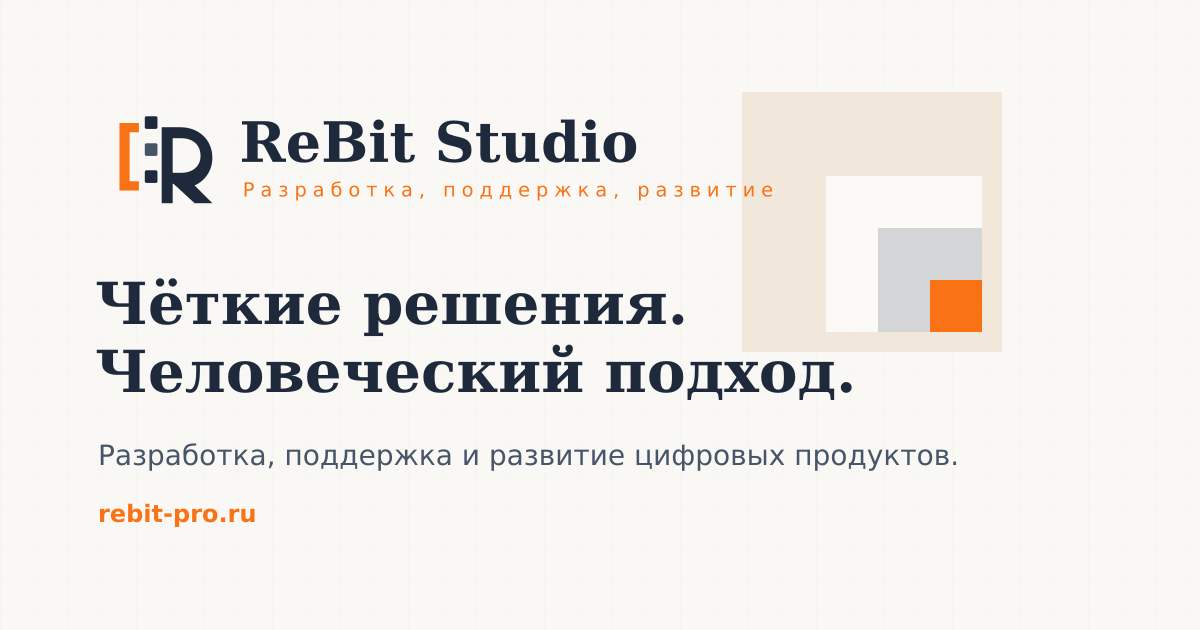
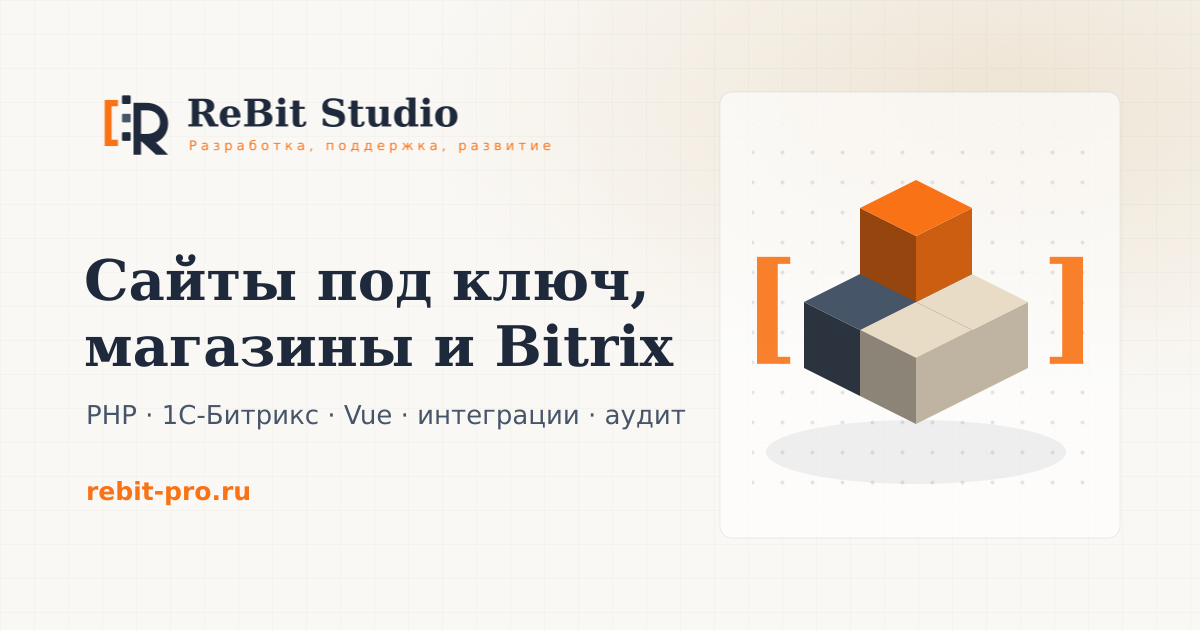
feat(seo): обновить OG-разметку и картинку под новый дизайн
- og-image.png пересобран в фирменном стиле: кремовый фон с сеткой,
  логотип ReBit Studio, заголовок «Сайты под ключ, магазины и Bitrix»,
  изометрический стек модулей (как в hero) и rebit-pro.ru;
- генератор og-image в scripts/generate-brand-assets.mjs переписан
  (программная сборка изо-кубов);
- OG-разметка дополнена: og:image:secure_url, og:image:type,
  og:image:alt, twitter:image:alt; теги упорядочены.

diff --git a/index.html b/index.html
@@ -24,6 +24,7 @@
     <!-- Open Graph -->
     <meta property="og:type" content="website" />
     <meta property="og:site_name" content="ReBit Studio" />
+    <meta property="og:locale" content="ru_RU" />
     <meta property="og:title" content="ReBit Studio — сайты под ключ, Bitrix, магазины и интеграции" />
     <meta
       property="og:description"
@@ -31,9 +32,14 @@
     />
     <meta property="og:url" content="https://rebit-pro.ru/" />
     <meta property="og:image" content="https://rebit-pro.ru/og-image.png" />
+    <meta property="og:image:secure_url" content="https://rebit-pro.ru/og-image.png" />
+    <meta property="og:image:type" content="image/png" />
     <meta property="og:image:width" content="1200" />
     <meta property="og:image:height" content="630" />
-    <meta property="og:locale" content="ru_RU" />
+    <meta
+      property="og:image:alt"
+      content="ReBit Studio — разработка сайтов под ключ, интернет-магазинов и проектов на 1С-Битрикс"
+    />
     <!-- Twitter -->
     <meta name="twitter:card" content="summary_large_image" />
     <meta name="twitter:title" content="ReBit Studio — сайты под ключ, Bitrix, магазины и интеграции" />
@@ -42,6 +48,10 @@
       content="Сайты под ключ, интернет-магазины, каталоги, Bitrix, Vue, интеграции, аудит и legacy."
     />
     <meta name="twitter:image" content="https://rebit-pro.ru/og-image.png" />
+    <meta
+      name="twitter:image:alt"
+      content="ReBit Studio — разработка сайтов под ключ, интернет-магазинов и проектов на 1С-Битрикс"
+    />
     <!-- Микроразметка Schema.org -->
     <script type="application/ld+json">
       {
